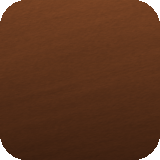
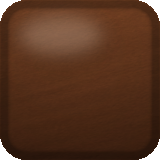
v16: procedural realism cues (vignette, edge AO, specular highlight)
Pushes the Pillow rendering toward photo-realism without sourcing an
actual keycap image asset, per the user's request. Adds to render_key in
scripts/generate_assets.py:

- apply_vignette: numpy radial falloff, brighter up-and-left of center
  like a product photo lit from above, darker toward the corners
- draw_edge_ao: a thin blurred stroke just inside the rounded silhouette
  -- the contact-shadow cue for where a keycap's flat top meets its side
  bevel, absent entirely before this
- draw_specular: a small tight bright ellipse offset off-center, distinct
  from the broad gradient sheen v15 already had

All three composite onto the full canvas rectangle and get clipped to the
rounded mask once at the end of render_key, rather than after each
individual layer. Confirmed via preview-theme that the specular highlight
doesn't hurt letter-glyph legibility. Not yet confirmed on a real device.

Claude-Session: https://claude.ai/code/session_01UhcvxHcyfEAiJzj1f81x6W

Changed region(s): [[0.0, 0.0, 1.0, 0.9688], [0.125, 0.0938, 0.625, 0.3438], [0.7812, 0.9688, 0.8125, 1.0]]

diff --git a/scripts/generate_assets.py b/scripts/generate_assets.py
@@ -188,6 +188,58 @@ def draw_edge_light(base, size, color, alpha, width_frac, height_frac, blur):
     base.alpha_composite(layer)
 
 
+def apply_vignette(img, strength=0.16, center=(0.42, 0.30)):
+    """Darkens toward the edges/corners, brightest near `center` (biased
+    up-and-left of true center, like a product photo lit from above) --
+    the cue a flat gradient alone can't give: a surface that reads as
+    gently curved/catching light unevenly rather than a flat-shaded card.
+    Vectorized with numpy."""
+    w, h = img.size
+    yy, xx = np.mgrid[0:h, 0:w].astype(np.float32)
+    cx, cy = w * center[0], h * center[1]
+    max_dist = np.sqrt(max(cx, w - cx) ** 2 + max(cy, h - cy) ** 2)
+    dist = np.sqrt((xx - cx) ** 2 + (yy - cy) ** 2) / max_dist
+    factor = 1.0 - np.clip(dist, 0, 1) ** 1.6 * strength
+    arr = np.asarray(img, dtype=np.float32) * factor[..., None]
+    return Image.fromarray(np.clip(arr, 0, 255).astype(np.uint8), mode="RGB")
+
+
+def draw_edge_ao(base, size, radius, mask, alpha=70, blur=2.5):
+    """A thin, soft, dark line just inside the key's silhouette -- the
+    contact-shadow cue for where a real keycap's flat top meets its side
+    bevel. Without this the whole surface reads as one flat plane; with
+    it, the top edge reads as a distinct surface catching light."""
+    w, h = size
+    inset = 3
+    ring = Image.new("L", size, 0)
+    rd = ImageDraw.Draw(ring)
+    rd.rounded_rectangle(
+        [inset, inset, w - 1 - inset, h - 1 - inset],
+        radius=max(radius - inset, 2),
+        outline=255,
+        width=3,
+    )
+    ring = ring.filter(ImageFilter.GaussianBlur(blur))
+    layer = Image.new("RGBA", size, SHADOW + (0,))
+    layer.putalpha(Image.eval(ring, lambda p: min(p, alpha)))
+    base.alpha_composite(layer)
+
+
+def draw_specular(base, size, alpha=55, pos=(0.38, 0.22), radius_frac=(0.30, 0.16), blur=10):
+    """A small, tight, bright highlight -- distinct from the broad top-lit
+    gradient sheen -- mimicking a real glossy/satin surface catching a
+    point light source, offset off-center like an actual photo rather
+    than a perfectly symmetric render."""
+    w, h = size
+    layer = Image.new("RGBA", size, (0, 0, 0, 0))
+    d = ImageDraw.Draw(layer)
+    cx, cy = w * pos[0], h * pos[1]
+    rw, rh = w * radius_frac[0], h * radius_frac[1]
+    d.ellipse([cx - rw, cy - rh, cx + rw, cy + rh], fill=(255, 250, 240, alpha))
+    layer = layer.filter(ImageFilter.GaussianBlur(blur))
+    base.alpha_composite(layer)
+
+
 def draw_stabilizer_dimples(base, size):
     """Subtle stabilizer-stem hints at the 1/4 and 3/4 width marks, near the
     key's base -- a cheap, recognizable spacebar detail no phone keyboard
@@ -231,17 +283,24 @@ def render_key(
     bottom = lerp(surf_bottom, tint, tint_amount * 0.5) if tint else surf_bottom
     body = vertical_gradient(size, top, bottom, gamma)
     body = apply_texture(body, make_brushed_texture(w, h, seed))
+    body = apply_vignette(body)
     canvas.paste(body, (0, 0), mask)
+
+    draw_specular(canvas, size)
+    draw_edge_ao(canvas, size, radius, mask)
 
     if glow_color is not None:
         draw_edge_light(
             canvas, size, glow_color, glow_alpha, glow_width, glow_height, glow_blur
         )
-        canvas.putalpha(Image.composite(canvas.getchannel("A"), Image.new("L", size, 0), mask))
 
     if stabilizers:
         draw_stabilizer_dimples(canvas, size)
-        canvas.putalpha(Image.composite(canvas.getchannel("A"), Image.new("L", size, 0), mask))
+
+    # Every layer above was composited onto the full canvas rectangle, not
+    # clipped to the rounded silhouette -- clip once here rather than
+    # after each individual layer.
+    canvas.putalpha(Image.composite(canvas.getchannel("A"), Image.new("L", size, 0), mask))
 
     return canvas
 

diff --git a/docs/GROOVY-CODE-THEME.md b/docs/GROOVY-CODE-THEME.md
@@ -1,7 +1,7 @@
 # Groovy Code — this repo's theme
 
 "Groovy Code" is a warm-toned 70's palette (gold/orange/rust/brown) with an
-orange accent, set in FiraCode. Currently at **v15**. The repo root *is* the
+orange accent, set in FiraCode. Currently at **v16**. The repo root *is* the
 theme package — `theme.txt` plus PNG assets plus the font, ready to zip and
 sideload into FUTO Keyboard's theme importer. See `docs/THEME-FORMAT.md` for
 what every field in `theme.txt` means in general; this doc is about the
@@ -40,6 +40,13 @@ choices specific to this theme.
   bottom) — no separate outer-ring/inset-dish regions, no crisp highlight
   line. This replaced the v10–v14 "outer body + inset dish + rim highlight
   + contact shadow" structure entirely; see the v15 entry below for why.
+- **Physical-object cues, v16:** a soft vignette (brighter up-and-left of
+  center, darker toward the corners), a thin edge ambient-occlusion line
+  just inside the silhouette, and a small tight specular highlight offset
+  off-center — none of these existed before v16; the surface was just a
+  flat gradient + brushed texture. Purely a request to make the
+  procedural render more photo-realistic, no new reference image this
+  round. See the v16 entry below for the specifics.
 - **v12 mechanical-keyboard pass:** `gap` raised from `1` to `1.5` on every
   border asset (uniformly, so spacing stays even) to expose more
   background between keys — the single highest-leverage move in the
@@ -74,6 +81,21 @@ choices specific to this theme.
   See `scripts/generate_assets.py` for the full technique
   (`make_brushed_texture`, `draw_bottom_glow`).
 
+- **v16 — three procedural realism cues added, no new reference image
+  this round.** The user asked to push the existing Pillow rendering
+  toward photo-realism rather than sourcing an actual keycap image
+  asset. Added in `render_key` (`scripts/generate_assets.py`):
+  `apply_vignette` (numpy radial falloff, brighter up-and-left of center
+  like a product photo lit from above, darker toward corners),
+  `draw_edge_ao` (a thin blurred stroke just inside the rounded
+  silhouette — the contact-shadow cue for where a keycap's flat top
+  meets its side bevel, missing entirely before this), and
+  `draw_specular` (a small tight bright ellipse, offset off-center,
+  distinct from the broad gradient sheen v15 already had). All three are
+  composited onto the full canvas rectangle (not clipped to the rounded
+  mask individually) and clipped once at the very end of `render_key` —
+  cheaper than re-clipping after every layer. Confirmed via
+  `preview-theme` that glyph legibility isn't hurt by the highlight.
 - **v15 redesign — the user said v14 "doesn't look like a mechanical
   keyboard," and a close-up photo of a real one they shared showed exactly
   why.** Three misses, in order of how much they mattered: (1) v14's glow
@@ -206,16 +228,16 @@ eventually happening.**
 - `morekeysbox`/`morekey` (long-press accent popup) styling was added but
   never confirmed on a real device — the editor's own JS preview stubs
   these to always-false, so it can only be verified in the real Android
-  app. They also weren't restyled for the v15 look (still the old
+  app. They also weren't restyled for the v15/v16 look (still the old
   gold-ring style from v11) since they can't be previewed to check the
   result — low priority, since they're only visible during a long-press.
-- v11 through v15 have all been checked with the `preview-theme` skill's
+- v11 through v16 have all been checked with the `preview-theme` skill's
   real render but **none of them have been screenshotted/confirmed on a
   real device yet** — that's the immediate next verification step. Real
   screen color/gamma and actual touch/pressed-state interaction still
   can't be checked any other way.
 - The background (`GroovyCode-background.png`) is still the original plain
-  dark texture, untouched through v15 — a first attempt at a brushed-plate
+  dark texture, untouched through v16 — a first attempt at a brushed-plate
   background (pure Pillow, no numpy) had a near-zero-variance bug and was
   abandoned when the v14 mockup redirected effort toward the keycaps
   instead. Revisit only if the plain background still looks flat next to

diff --git a/CLAUDE.md b/CLAUDE.md
@@ -4,7 +4,7 @@
 
 A custom theme for **FUTO Keyboard** (Android) called "Groovy Code" — a warm-toned
 70's palette (gold/orange/rust/brown) with an orange accent, set in FiraCode.
-Currently at **v15**. The repo root is the theme package itself: `theme.txt` plus
+Currently at **v16**. The repo root is the theme package itself: `theme.txt` plus
 PNG assets plus the font, ready to zip and sideload into the FUTO Keyboard app's
 theme importer.
 
@@ -165,6 +165,22 @@ is sparsely documented anywhere else.
   correctly across the whole palette instead of one flat number tuned for
   one color.
 
+- **v16 (procedural realism cues, checked with `preview-theme`, not yet on
+  a real device):** the user asked to push the render toward
+  photo-realism without sourcing an actual keycap image asset — a pure
+  code/rendering-technique request, no new reference image. Added to
+  `render_key` in `scripts/generate_assets.py`: `apply_vignette` (numpy
+  radial falloff, brighter up-and-left of center like a product photo lit
+  from above, darker toward corners), `draw_edge_ao` (a thin blurred
+  stroke just inside the rounded silhouette — the contact-shadow cue for
+  where a keycap's flat top meets its side bevel, absent before this),
+  and `draw_specular` (a small tight bright ellipse offset off-center,
+  distinct from the broad gradient sheen v15 already had). All three
+  composite onto the full canvas rectangle and get clipped to the rounded
+  mask once at the end of `render_key`, rather than re-clipping after
+  each individual layer. Confirmed via `preview-theme` that the
+  specular highlight doesn't hurt letter-glyph legibility.
+
 - **v15 (single-surface brushed keycaps + tight edge-light, checked with
   `preview-theme`, not yet on a real device):** the user said v14 "doesn't
   look like a mechanical keyboard," then shared a close-up photo of a real
@@ -284,6 +300,10 @@ is sparsely documented anywhere else.
   regions, no crisp highlight line. Replaced the v10-v14 "outer body +
   inset dish + rim highlight + contact shadow" structure entirely; see
   the v15 changelog entry above for why.
+- **Physical-object cues, v16:** a soft vignette, a thin edge
+  ambient-occlusion line, and a small tight specular highlight — none of
+  these existed before v16, the surface was just a flat gradient +
+  brushed texture. See the v16 changelog entry above.
 
 ## Build workflow
 
@@ -337,10 +357,10 @@ without (c) eventually happening.
 - `morekeysbox`/`morekey` (long-press accent popup) styling was added but
   never confirmed on a real device — the editor's own JS preview stubs these
   to always-false, so it could only be verified in the real Android app.
-  Not restyled for the v15 look either (still the old gold-ring style from
+  Not restyled for the v15/v16 look either (still the old gold-ring style from
   v11) for the same reason — low priority since it's only visible on
   long-press.
-- v11 through v15 have all been checked with the `preview-theme` skill's
+- v11 through v16 have all been checked with the `preview-theme` skill's
   real render (v13's caught the dish-squeeze bug; v15's fixed the "doesn't
   look mechanical" feedback) but **none of them have been screenshotted/
   confirmed on a real device yet** — that's the immediate next step. This
@@ -348,7 +368,7 @@ without (c) eventually happening.
   v14's overall miss) is exactly why a real-code render or a real device
   catches things static analysis can't.
 - The background (`GroovyCode-background.png`) is still the original plain
-  dark texture, untouched through v15. A first attempt at a brushed-plate
+  dark texture, untouched through v16. A first attempt at a brushed-plate
   background (pure Pillow, no numpy) had a near-zero-variance bug and was
   abandoned when effort redirected to the keycaps instead. Revisit only if
   the plain background still looks flat against the now much more
